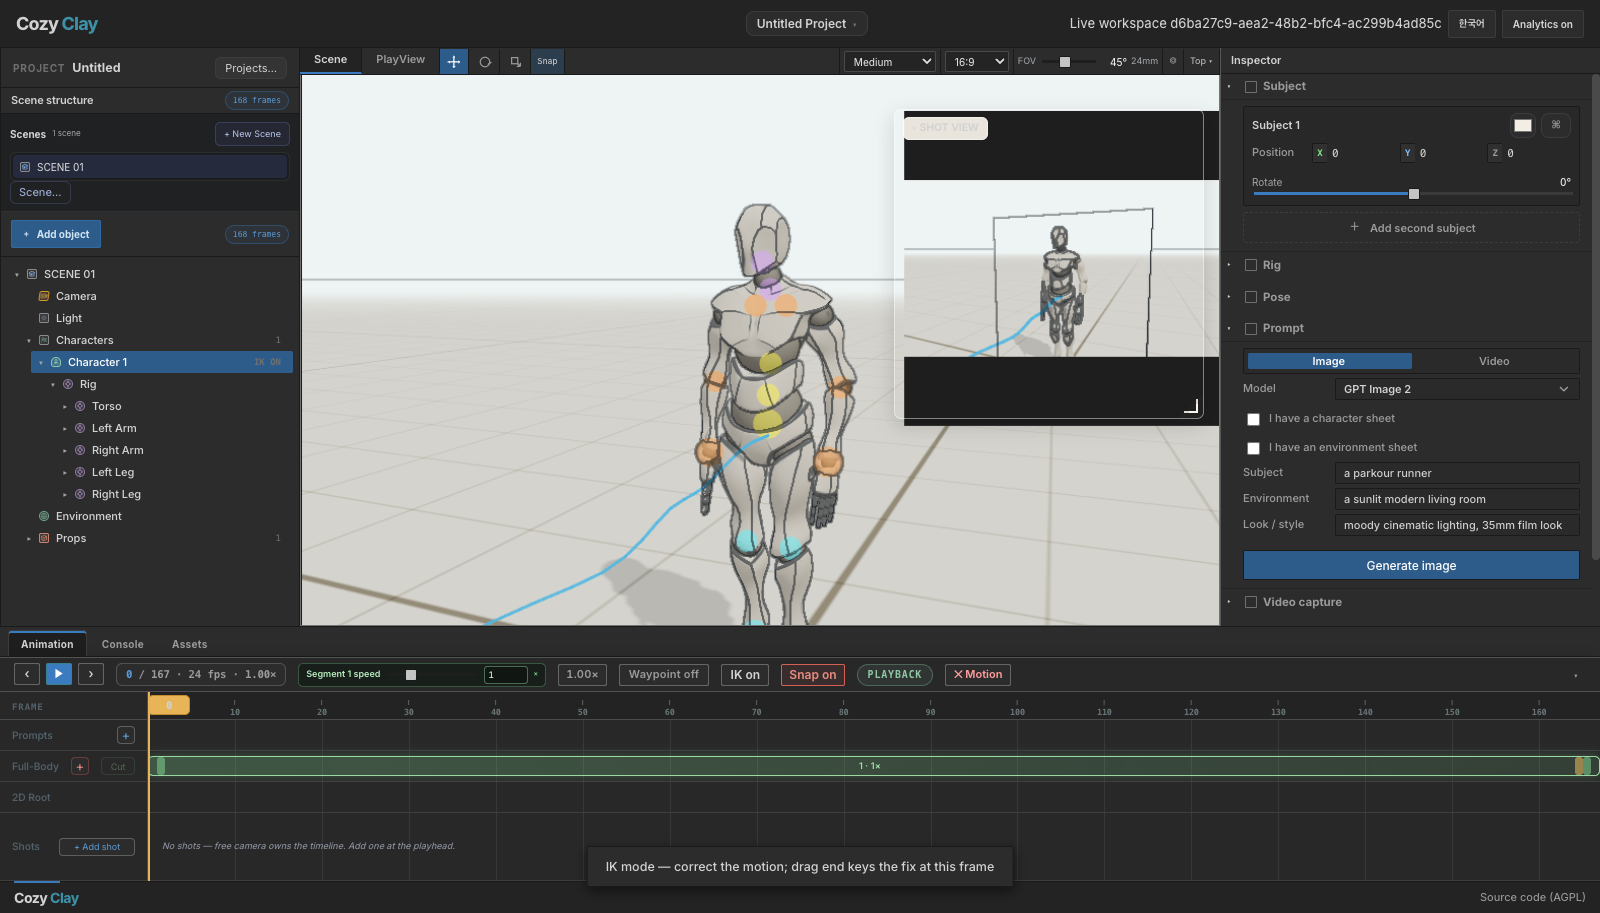
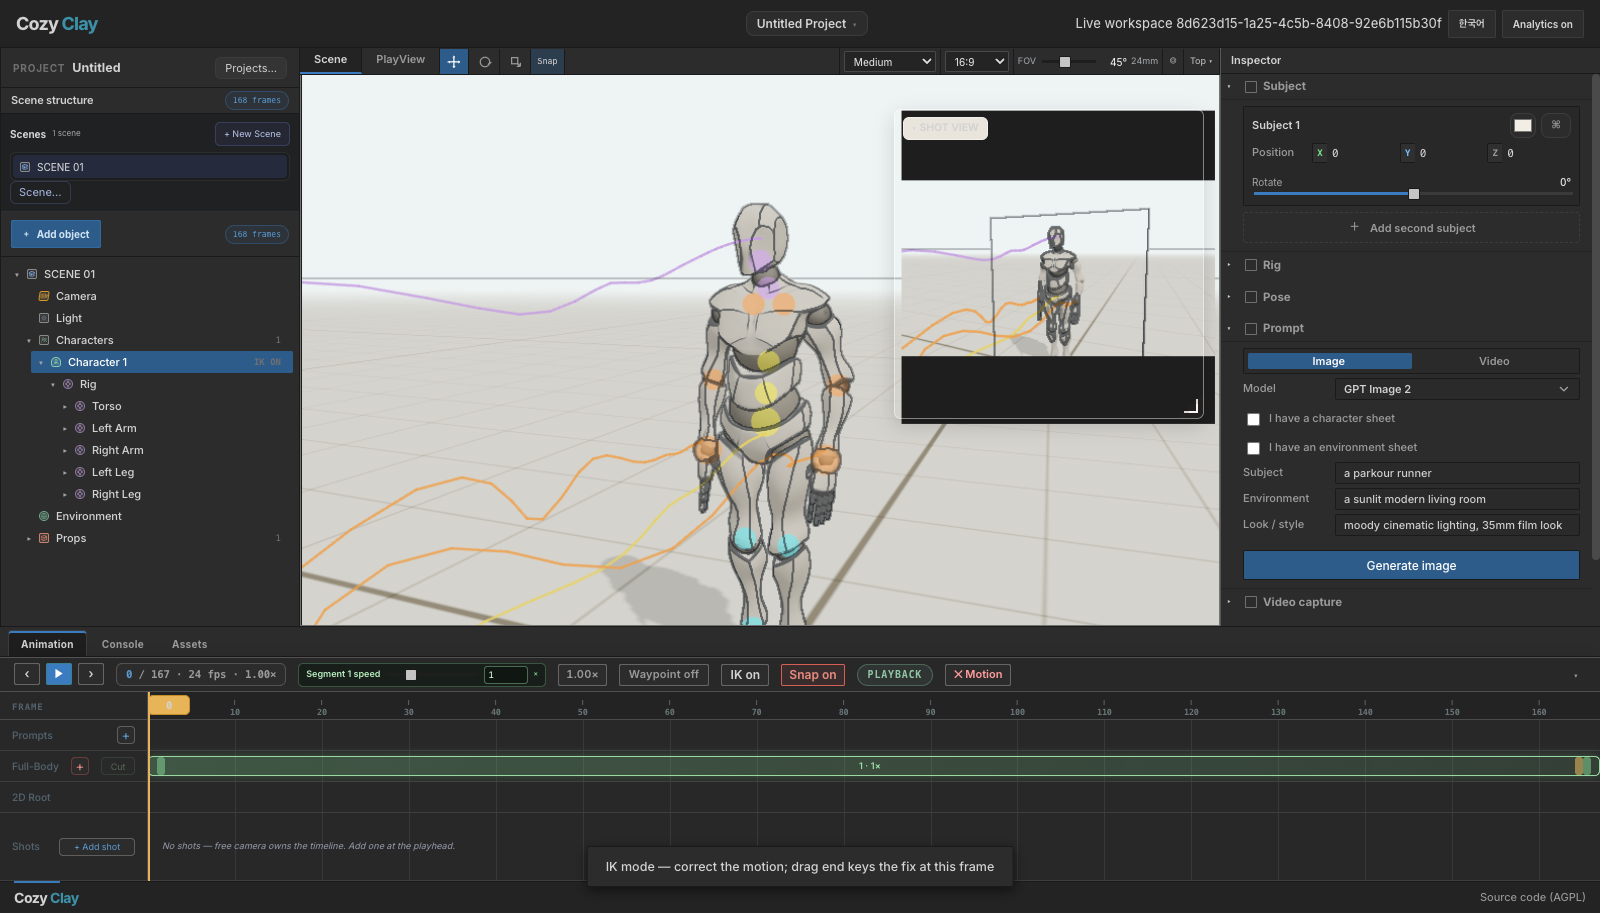
feat: per-part motion trails in IK handle colors

diff --git a/src/App.jsx b/src/App.jsx
@@ -22,7 +22,7 @@ import { fetchFootageBlob, footageSummary, isPlatformPageUrl, normalizeSourceUrl
 import { bakeExtractedTake, bakePoseFrame, collectLandmarkTrack, createPoseDetector, imageFrames, sampleTimes, videoFrames } from "./pose-extract/index.js";
 import { applyMotionFrame, captureArdyRoot, restorePlaybackBones, snapshotPlaybackBones } from "./ardy/playback.js";
 import { PIN_BLOCKED, planPosePin } from "./ardy/pose-pin.js";
-import { TRAIL_EFFECTOR_JOINTS, applyTrailFalloffDelta, jointTrailPoints, nearestFrameToRay, trailEditRange, worldDeltaToClip } from "./motion-trail.js";
+import { TRAIL_EFFECTOR_JOINTS, TRAIL_TRACKS, applyTrailFalloffDelta, jointTrailPoints, nearestFrameToRay, trailEditRange, worldDeltaToClip } from "./motion-trail.js";
 import { movePromptClipFrames } from "./ardy/prompt-clips.js";
 import Timeline from "./ardy/timeline.jsx";
 import { alignArdyPath, judgeAuthoredPath, judgeNextWaypoint, toSceneRootOffset, PATH_LIMITS } from "./ardy/waypoints.js";
@@ -2417,19 +2417,21 @@ function MotionTrails({ motion, baseY, charScale, ikFocus, falloffFrames, pendin
 		for (let index = 0; index + 2 < flat.length; index += 3) out.push([flat[index], flat[index + 1], flat[index + 2]]);
 		return out;
 	};
-	const rootFlat = useMemo(() => jointTrailPoints(motion, "Hips", { baseY, scale: charScale }), [motion, baseY, charScale]);
-	const effectorJoint = TRAIL_EFFECTOR_JOINTS[ikFocus] ?? null;
-	const effectorFlat = useMemo(
-		() => (effectorJoint && effectorJoint !== "Hips" ? jointTrailPoints(motion, effectorJoint, { baseY, scale: charScale }) : null),
-		[motion, effectorJoint, baseY, charScale],
+	// Every trail track (root + IK endpoints + head) in its handle colour.
+	const tracks = useMemo(
+		() => TRAIL_TRACKS.map((track) => {
+			const flat = jointTrailPoints(motion, track.joint, { baseY, scale: charScale });
+			return flat ? { ...track, flat, points: toTriples(flat) } : null;
+		}).filter(Boolean),
+		// eslint-disable-next-line react-hooks/exhaustive-deps
+		[motion, baseY, charScale],
 	);
-	const rootPoints = useMemo(() => toTriples(rootFlat), [rootFlat]);
-	const effectorPoints = useMemo(() => toTriples(effectorFlat), [effectorFlat]);
+	const trackById = (id) => tracks.find((track) => track.id === id) ?? null;
 	// The falloff window rides whichever line is being (or was last) grabbed.
 	const highlight = drag ?? pendingEdit;
 	const highlightPoints = useMemo(() => {
 		if (!highlight || !motion?.frames) return null;
-		const flat = highlight.track === "effector" ? effectorFlat : rootFlat;
+		const flat = trackById(highlight.track)?.flat ?? trackById("hips")?.flat;
 		if (!flat) return null;
 		const { startFrame, endFrame } = trailEditRange(motion.frames, highlight.grabFrame, falloffFrames);
 		const out = [];
@@ -2437,7 +2439,8 @@ function MotionTrails({ motion, baseY, charScale, ikFocus, falloffFrames, pendin
 			out.push([flat[frame * 3], flat[frame * 3 + 1], flat[frame * 3 + 2]]);
 		}
 		return out.length > 1 ? out : null;
-	}, [highlight, motion, rootFlat, effectorFlat, falloffFrames]);
+		// eslint-disable-next-line react-hooks/exhaustive-deps
+	}, [highlight, motion, tracks, falloffFrames]);
 
 	// Manual capture-phase picking instead of r3f pointer handlers: handlers on
 	// a drei Line make react-three-fiber raycast the fat-line shader geometry on
@@ -2445,7 +2448,7 @@ function MotionTrails({ motion, baseY, charScale, ikFocus, falloffFrames, pendin
 	// A single pointerdown listener that measures point-to-ray distance against
 	// the cached trail arrays costs nothing while the mouse merely moves.
 	const pickRef = useRef(null);
-	pickRef.current = { rootFlat, effectorFlat, enabled };
+	pickRef.current = { tracks, enabled };
 	useEffect(() => {
 		const dom = gl.domElement;
 		const raycaster = new THREE.Raycaster();
@@ -2460,26 +2463,26 @@ function MotionTrails({ motion, baseY, charScale, ikFocus, falloffFrames, pendin
 			);
 			raycaster.setFromCamera(ndc, camera);
 			const { origin, direction } = raycaster.ray;
-			// Effector first: it usually overlaps the root path and is the finer target.
-			const candidates = [
-				["effector", pick.effectorFlat],
-				["root", pick.rootFlat],
-			];
+			// TRAIL_TRACKS order is limbs-first, hips last: an overlapping grab
+			// prefers the finer limb target, and among candidates within the
+			// threshold the closest line wins.
 			let track = null;
 			let grabFrame = 0;
-			for (const [name, flat] of candidates) {
-				const near = flat ? nearestFrameToRay(flat, origin, direction, 0.2) : null;
-				if (near) {
-					track = name;
+			let bestDistance = Infinity;
+			for (const candidate of pick.tracks) {
+				const near = nearestFrameToRay(candidate.flat, origin, direction, 0.2);
+				if (near && near.distance < bestDistance) {
+					track = candidate.id;
 					grabFrame = near.frame;
-					break;
+					bestDistance = near.distance;
 				}
 			}
 			if (!track) return;
 			// The grab wins over the camera controls listening in the bubble phase.
 			event.stopPropagation();
 			event.preventDefault();
-			const flat = track === "effector" ? pick.effectorFlat : pick.rootFlat;
+			const flat = pick.tracks.find((candidate) => candidate.id === track)?.flat;
+			if (!flat) return;
 			const start = new THREE.Vector3(flat[grabFrame * 3], flat[grabFrame * 3 + 1], flat[grabFrame * 3 + 2]);
 			const normal = camera.getWorldDirection(new THREE.Vector3()).negate();
 			const plane = new THREE.Plane().setFromNormalAndCoplanarPoint(normal, start);
@@ -2521,15 +2524,24 @@ function MotionTrails({ motion, baseY, charScale, ikFocus, falloffFrames, pendin
 		// eslint-disable-next-line react-hooks/exhaustive-deps
 	}, [gl, camera]);
 
-	if (!rootPoints || rootPoints.length < 2) return null;
-	// depthTest off + high renderOrder: the trail reads through the character
-	// and the floor instead of vanishing into them (the faintness complaint).
+	if (!tracks.length) return null;
+	const focusTrack = TRAIL_EFFECTOR_JOINTS[ikFocus] ? tracks.find((track) => track.joint === TRAIL_EFFECTOR_JOINTS[ikFocus])?.id : null;
+	// depthTest off + high renderOrder: the trails read through the character
+	// and the floor instead of vanishing into them. Every part rides its own
+	// IK-handle colour; the focused part draws thicker.
 	return (
 		<group renderOrder={900}>
-			<Line points={rootPoints} color="#1fa8ff" lineWidth={3} depthTest={false} transparent opacity={0.9} />
-			{effectorPoints && effectorPoints.length > 1 && (
-				<Line points={effectorPoints} color="#ffb020" lineWidth={3} depthTest={false} transparent opacity={0.9} />
-			)}
+			{tracks.map((track) => track.points.length > 1 && (
+				<Line
+					key={track.id}
+					points={track.points}
+					color={track.color}
+					lineWidth={track.id === focusTrack ? 4 : 2.5}
+					depthTest={false}
+					transparent
+					opacity={track.id === focusTrack ? 1 : 0.85}
+				/>
+			))}
 			{highlightPoints && (
 				<Line points={highlightPoints} color={drag ? "#3dff7a" : "#ff8c42"} lineWidth={5} depthTest={false} />
 			)}

diff --git a/src/motion-trail.js b/src/motion-trail.js
@@ -13,6 +13,21 @@ import { CSKEL27_JOINTS } from "./ardy/cskel27.js";
 
 const JOINTS = CSKEL27_JOINTS.length;
 
+/**
+ * The always-drawn trail tracks: root plus every IK chain endpoint and the
+ * head, coloured exactly like their viewport IK/FK handles (posestudio.jsx
+ * coding: arms orange, legs blue, torso yellow, head purple). Pick order is
+ * limbs-first so an overlapping grab prefers the finer target; hips last.
+ */
+export const TRAIL_TRACKS = [
+	{ id: "leftHand", joint: "LeftHand", color: "#ff8a3d" },
+	{ id: "rightHand", joint: "RightHand", color: "#ff8a3d" },
+	{ id: "leftFoot", joint: "LeftFoot", color: "#4dd2ff" },
+	{ id: "rightFoot", joint: "RightFoot", color: "#4dd2ff" },
+	{ id: "head", joint: "Head", color: "#b98cff" },
+	{ id: "hips", joint: "Hips", color: "#ffd23d" },
+];
+
 /** ikFocus token -> cskel27 joint whose posed position draws the effector trail. */
 export const TRAIL_EFFECTOR_JOINTS = {
 	hips: "Hips",
